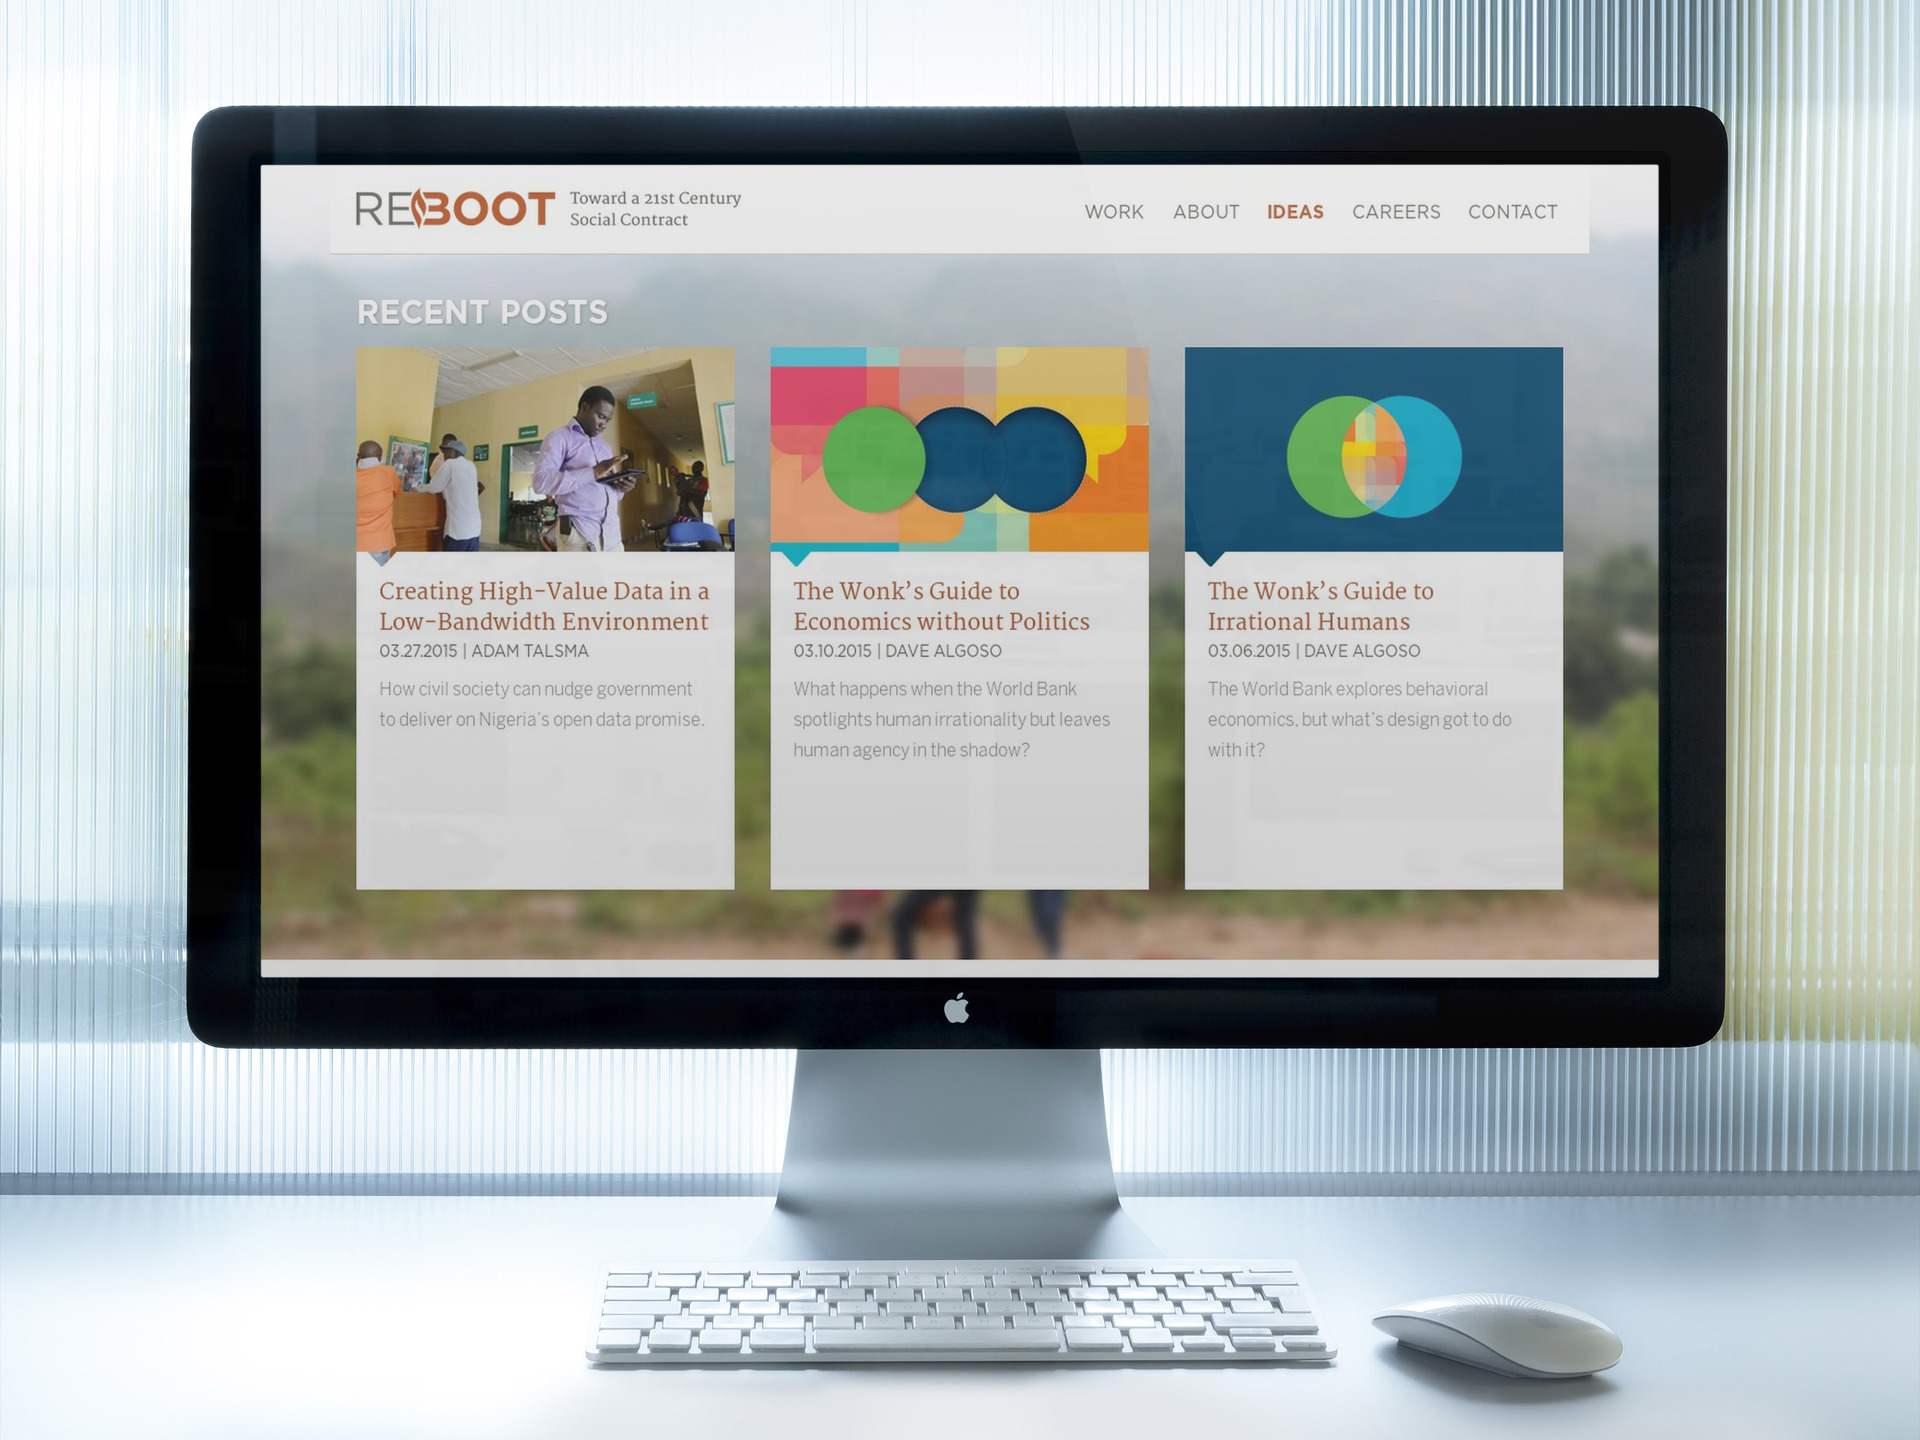
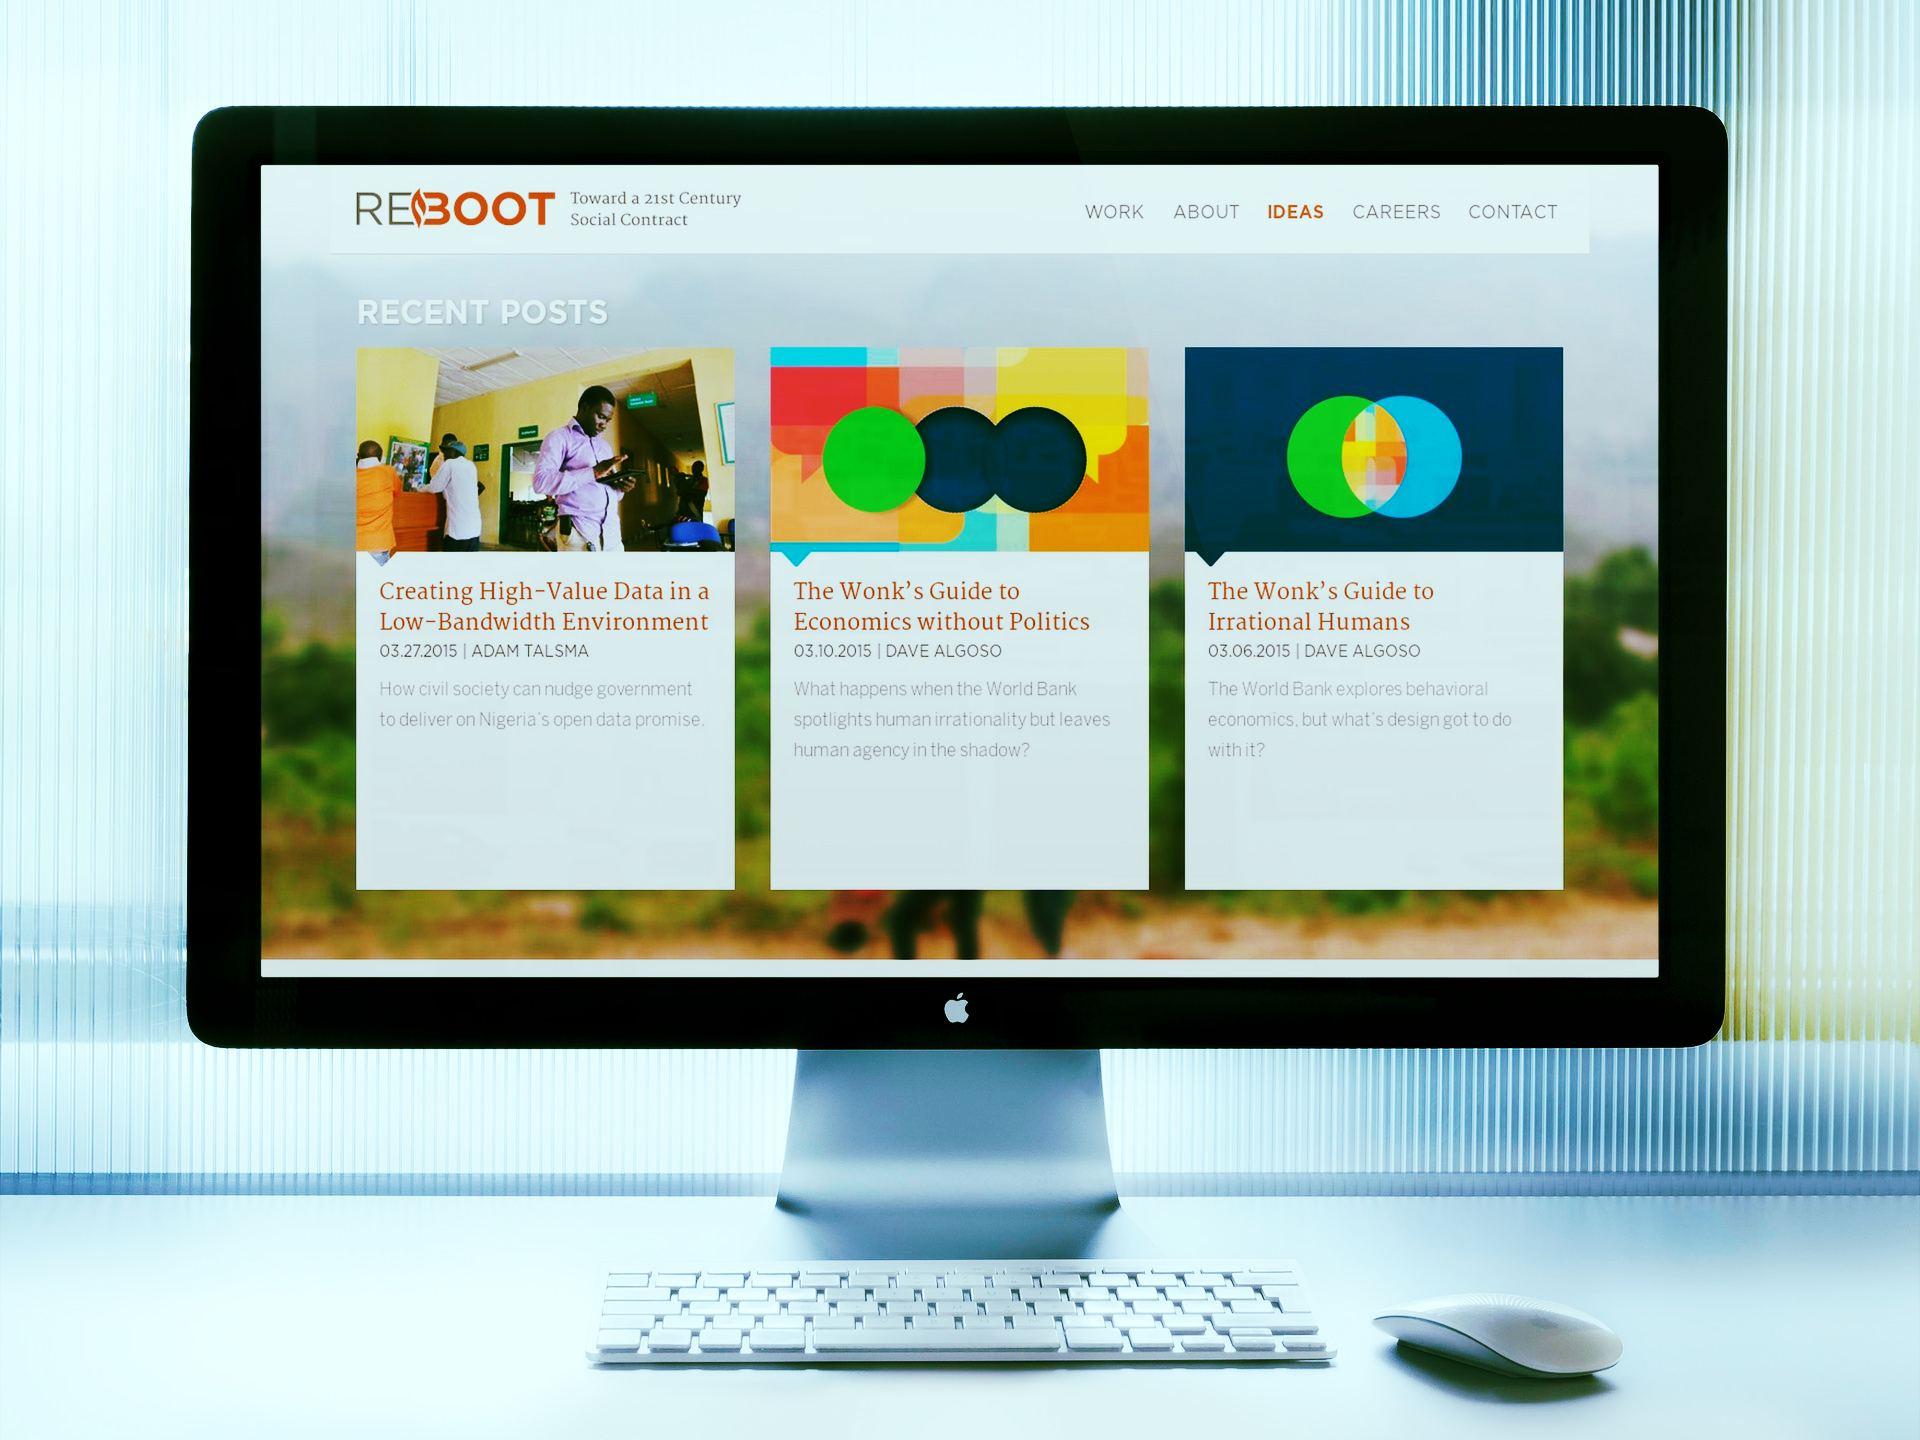
Nimbus Sans added

diff --git a/site/components/pages/home/home.html b/site/components/pages/home/home.html
@@ -207,55 +207,6 @@
 
   <picture>
     <!--[if IE 9]><video style="display: none;"><![endif]-->
-    <source media="(min-width: 1600px)" srcset="/assets/images/intro-wanderlust_desktop.png, /assets/images/intro-wanderlust_desktop2x.png 2x">
-    <source media="(min-width: 1024px)" srcset="/assets/images/intro-wanderlust_laptop.png, /assets/images/intro-wanderlust_laptop2x.png 2x">
-    <source media="(min-width: 600px)" srcset="/assets/images/intro-wanderlust_tablet.png, /assets/images/intro-wanderlust_tablet2x.png 2x">
-    <source srcset="/assets/images/intro-wanderlust_mobile.png, /assets/images/intro-wanderlust_mobile2x.png 2x">
-    <!--[if IE 9]></video><![endif]-->
-    <img srcset="/assets/images/intro-wanderlust_desktop.png" alt="Wanderlust">
-  </picture>
-
-  <figcaption class="figcaption--from-title">
-    Wanderlust
-  </figcaption>
-
-  
-</figure>
-
-        
-      </div>
-    
-      
-      <div class="slide">
-        
-          
-          <figure >
-  
-
-
-  
-  
-  
-  
-  
-  
-  
-  
-
-
-  <!-- Showing different images for different devices -->
-  
-
-
-
-  
-  
-
-  
-
-
-  <picture>
-    <!--[if IE 9]><video style="display: none;"><![endif]-->
     <source media="(min-width: 1600px)" srcset="/assets/images/intro-scatter_desktop.png, /assets/images/intro-scatter_desktop2x.png 2x">
     <source media="(min-width: 1024px)" srcset="/assets/images/intro-scatter_laptop.png, /assets/images/intro-scatter_laptop2x.png 2x">
     <source media="(min-width: 600px)" srcset="/assets/images/intro-scatter_tablet.png, /assets/images/intro-scatter_tablet2x.png 2x">
@@ -284,11 +235,6 @@
 
   
     <div class="active">
-      <span>O</span>
-      <span class="active">&bull;</span>
-    </div>
-  
-    <div >
       <span>O</span>
       <span class="active">&bull;</span>
     </div>

diff --git a/site/components/framework/design/typography/fonts/fonts.scss b/site/components/framework/design/typography/fonts/fonts.scss
@@ -11,6 +11,13 @@
 // - styles and weights: Book, Medium, 
 
 
+// Nimbus Sans
+// - The default typeface, sans-serif
+// - character set: English, with OpenType Features on
+// - served from Typekit
+// - styles and weights: Regular, Bold, 
+
+
 // Silkscreen
 // - The logo typeface, sans-serif
 // - character set: English, with OpenType Features on
@@ -32,6 +39,18 @@
   @if ($variant == 'futura-pt-medium') {
     font-family: 'futura-pt', sans-serif;
     font-weight: 500;
+    font-style: normal;
+  }
+  
+  @if ($variant == 'nimbus-sans-regular') {
+    font-family: 'nimbus-sans', sans-serif;
+    font-weight: 400;
+    font-style: normal;
+  }
+  
+  @if ($variant == 'nimbus-sans-bold') {
+    font-family: 'nimbus-sans', sans-serif;
+    font-weight: 700;
     font-style: normal;
   }
   

diff --git a/site/components/framework/design/typography/text-style/text-style.scss b/site/components/framework/design/typography/text-style/text-style.scss
@@ -10,7 +10,7 @@
   // Default
   // - The default text
   @if ($variant == 'default') {
-    @include font(futura-pt-book);
+    @include font(nimbus-sans-regular);
     @include scale(default);
     @include colors(white-on-blue);
     
@@ -52,7 +52,7 @@
   // Title
   // - The title of an article or page
   @if ($variant == 'title') {
-    @include font(futura-pt-medium);
+    @include font(nimbus-sans-bold);
     
     
     
@@ -61,7 +61,7 @@
   // Menu
   // - The main navigation menu
   @if ($variant == 'menu') {
-    @include font(futura-pt-medium);
+    @include font(nimbus-sans-bold);
     @include scale(small-1);
     @include uppercase(1.9px);
     

diff --git a/site/components/framework/design/decorations/arrow/arrow.scss b/site/components/framework/design/decorations/arrow/arrow.scss
@@ -25,22 +25,4 @@
   + .arrow {
     margin-left: $lem / 2;
   }
-
-  @include mobile-and-up {
-    .arrow__icon--left {
-      margin-right: $lem / 8;
-    }
-
-    .arrow__icon--right {
-      margin-left: $lem / 8;
-    }
-
-    .arrow__text {
-      display: flex;
-    }
-
-    + .arrow {
-      margin-left: $lem;
-    }
-  }
 }

diff --git a/site/components/pages/home/home.scss b/site/components/pages/home/home.scss
@@ -1,6 +1,12 @@
 html {
   &.home {
     body {
+      .header {
+        @include tablet-and-up {
+          display: none;
+        }
+      }
+
       .home__intro {
         @include home__intro;
       }

diff --git a/site/components/pages/work/smuff/smuff.html b/site/components/pages/work/smuff/smuff.html
@@ -484,9 +484,7 @@
   
     <li>Front&ndash;end</li>
   
-    <li>Wordpress, Yii</li>
-  
-    <li>E&ndash;commerce</li>
+    <li>Wordpress, Yii, E&ndash;commerce</li>
   
 </ul>
 

diff --git a/site/components/pages/work/work.html b/site/components/pages/work/work.html
@@ -50,15 +50,6 @@
 
 
 
-
-  
-  <header class="title">
-  <span class="title__main">Work</span>
-
-  
-</header>
-
-
   <section class="work__thumbs">
   <h3>Thumbs</h3>
 

diff --git a/site/components/project/work/__services-and-navigation/work__services-and-navigation.scss b/site/components/project/work/__services-and-navigation/work__services-and-navigation.scss
@@ -2,7 +2,7 @@
   @include colors(black-on-gray);
   padding: $lem;
 
-  display: flex;
+  display: none;
   flex-wrap: no-wrap;
   align-items: center;
 

diff --git a/site/components/project/work/__navigation/work__navigation.scss b/site/components/project/work/__navigation/work__navigation.scss
@@ -1,5 +1,5 @@
 @mixin work__navigation {
-  display: flex;
+  display: none;
   align-items: center;
   justify-content: flex-end;
   flex: 1;

diff --git a/site/components/pages/home/__intro/home__intro.scss b/site/components/pages/home/__intro/home__intro.scss
@@ -29,4 +29,8 @@
       @include slider__bullets--vertical;
     }
   }
+
+  figure {
+    @include color-overlay($blue, .1);
+  }
 }

diff --git a/site/components/project/slider/slider.scss b/site/components/project/slider/slider.scss
@@ -3,7 +3,6 @@
   @include colors(white-on-blue);
 
   @include tablet-and-below {
-    flex-basis: 100%;
     width: 100%;
   }
 

diff --git a/site/components/project/thumb/thumb.scss b/site/components/project/thumb/thumb.scss
@@ -1,5 +1,5 @@
 @mixin thumb {
-  flex-basis: 25em;
+  flex-basis: 22em;
   margin-bottom: $lem;
 
   @include mobile {
